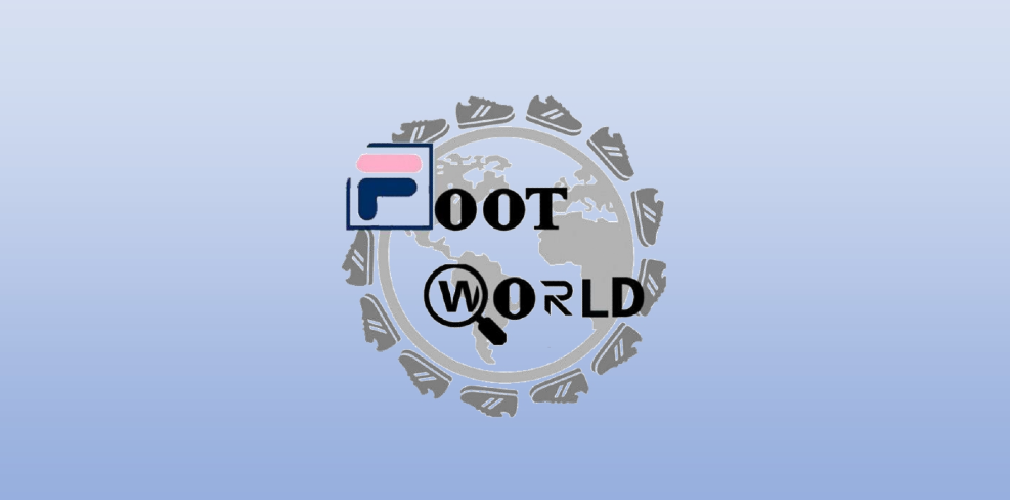
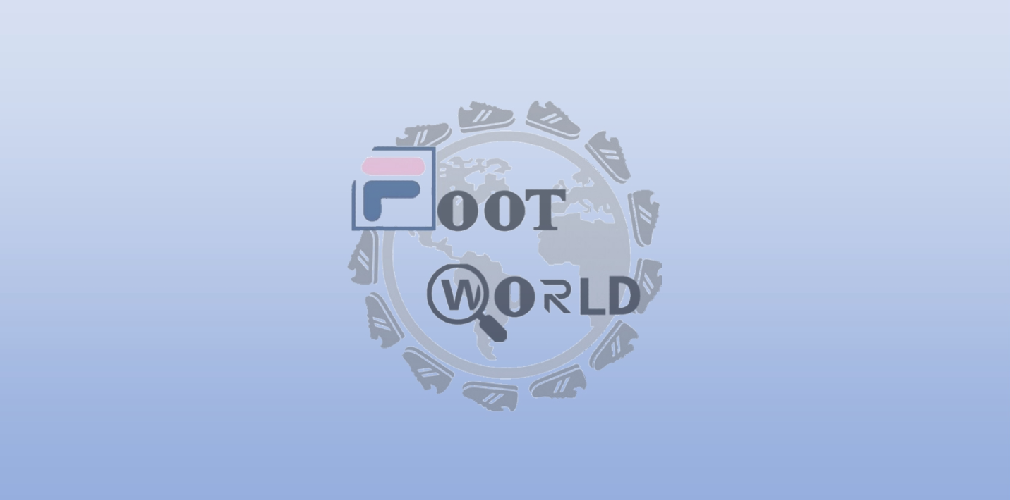
All backgrounds added

Changed region(s): [[0.3376, 0.18, 0.6752, 0.84]]

diff --git a/Zapatillas/src/presentacion/producto/VAltaProducto.java b/Zapatillas/src/presentacion/producto/VAltaProducto.java
@@ -6,6 +6,7 @@ import java.awt.event.ActionEvent;
 import java.awt.event.ActionListener;
 import java.util.ArrayList;
 
+import javax.swing.ImageIcon;
 import javax.swing.JButton;
 import javax.swing.JComboBox;
 import javax.swing.JFrame;
@@ -22,6 +23,7 @@ public class VAltaProducto extends JFrame{
 		super("Foot World");
 		this.setBounds(100, 100, 330, 350);
 		this.setVisible(true);
+		this.setContentPane(new JLabel(new ImageIcon("resources/330x350.png")));
 		this.setLayout(null);
 		this.setDefaultCloseOperation(JFrame.EXIT_ON_CLOSE);
 	}

diff --git a/Zapatillas/src/presentacion/cliente/VAltaCliente.java b/Zapatillas/src/presentacion/cliente/VAltaCliente.java
@@ -5,6 +5,7 @@ import java.awt.Font;
 import java.awt.event.ActionEvent;
 import java.awt.event.ActionListener;
 
+import javax.swing.ImageIcon;
 import javax.swing.JButton;
 import javax.swing.JCheckBox;
 import javax.swing.JFrame;
@@ -21,6 +22,7 @@ public class VAltaCliente extends JFrame{
 		super("Foot World");
 		this.setBounds(100, 100, 330, 350);
 		this.setVisible(true);
+		this.setContentPane(new JLabel(new ImageIcon("resources/330x350.png")));
 		this.setLayout(null);
 		this.setDefaultCloseOperation(JFrame.EXIT_ON_CLOSE);
 	}

diff --git a/Zapatillas/src/presentacion/trabajador/VAltaTrabajador.java b/Zapatillas/src/presentacion/trabajador/VAltaTrabajador.java
@@ -5,6 +5,7 @@ import java.awt.Font;
 import java.awt.event.ActionEvent;
 import java.awt.event.ActionListener;
 
+import javax.swing.ImageIcon;
 import javax.swing.JButton;
 import javax.swing.JFrame;
 import javax.swing.JLabel;
@@ -20,6 +21,7 @@ public class VAltaTrabajador extends JFrame{
 		super("Foot World");
 		this.setBounds(100, 100, 330, 350);
 		this.setVisible(true);
+		this.setContentPane(new JLabel(new ImageIcon("resources/330x350.png")));
 		this.setLayout(null);
 		this.setDefaultCloseOperation(JFrame.EXIT_ON_CLOSE);
 	}

diff --git a/Zapatillas/src/presentacion/trabajador/VBajaTrabajador.java b/Zapatillas/src/presentacion/trabajador/VBajaTrabajador.java
@@ -5,6 +5,7 @@ import java.awt.Font;
 import java.awt.event.ActionEvent;
 import java.awt.event.ActionListener;
 
+import javax.swing.ImageIcon;
 import javax.swing.JButton;
 import javax.swing.JFrame;
 import javax.swing.JLabel;
@@ -20,6 +21,7 @@ public class VBajaTrabajador extends JFrame{
 		super("Foot World");
 		this.setBounds(100, 100, 330, 230);
 		this.setVisible(true);
+		this.setContentPane(new JLabel(new ImageIcon("resources/330x230.png")));
 		this.setLayout(null);
 		this.setDefaultCloseOperation(JFrame.EXIT_ON_CLOSE);
 	}

diff --git a/Zapatillas/src/presentacion/mostrar/VMostrarUno.java b/Zapatillas/src/presentacion/mostrar/VMostrarUno.java
@@ -5,6 +5,7 @@ import java.awt.Font;
 import java.awt.event.ActionEvent;
 import java.awt.event.ActionListener;
 
+import javax.swing.ImageIcon;
 import javax.swing.JButton;
 import javax.swing.JFrame;
 import javax.swing.JLabel;
@@ -23,6 +24,7 @@ public class VMostrarUno extends JFrame{
 		this.entidad = entidad;
 		this.setBounds(100, 100, 330, 230);
 		this.setVisible(true);
+		this.setContentPane(new JLabel(new ImageIcon("resources/330x230.png")));
 		this.setLayout(null);
 		this.setDefaultCloseOperation(JFrame.EXIT_ON_CLOSE);
 	}

diff --git a/Zapatillas/src/presentacion/proveedor/VAltaProveedor.java b/Zapatillas/src/presentacion/proveedor/VAltaProveedor.java
@@ -5,6 +5,7 @@ import java.awt.Font;
 import java.awt.event.ActionEvent;
 import java.awt.event.ActionListener;
 
+import javax.swing.ImageIcon;
 import javax.swing.JButton;
 import javax.swing.JFrame;
 import javax.swing.JLabel;
@@ -20,6 +21,7 @@ public class VAltaProveedor extends JFrame{
 		super("Foot World");
 		this.setBounds(100, 100, 330, 350);
 		this.setVisible(true);
+		this.setContentPane(new JLabel(new ImageIcon("resources/330x350.png")));
 		this.setLayout(null);
 		this.setDefaultCloseOperation(JFrame.EXIT_ON_CLOSE);
 	}

diff --git a/Zapatillas/src/presentacion/proveedor/VBajaProveedor.java b/Zapatillas/src/presentacion/proveedor/VBajaProveedor.java
@@ -5,6 +5,7 @@ import java.awt.Font;
 import java.awt.event.ActionEvent;
 import java.awt.event.ActionListener;
 
+import javax.swing.ImageIcon;
 import javax.swing.JButton;
 import javax.swing.JFrame;
 import javax.swing.JLabel;
@@ -20,6 +21,7 @@ public class VBajaProveedor extends JFrame{
 		super("Foot World");
 		this.setBounds(100, 100, 330, 230);
 		this.setVisible(true);
+		this.setContentPane(new JLabel(new ImageIcon("resources/330x230.png")));
 		this.setLayout(null);
 		this.setDefaultCloseOperation(JFrame.EXIT_ON_CLOSE);
 	}

diff --git a/Zapatillas/src/presentacion/producto/VBajaProducto.java b/Zapatillas/src/presentacion/producto/VBajaProducto.java
@@ -5,6 +5,7 @@ import java.awt.Font;
 import java.awt.event.ActionEvent;
 import java.awt.event.ActionListener;
 
+import javax.swing.ImageIcon;
 import javax.swing.JButton;
 import javax.swing.JFrame;
 import javax.swing.JLabel;
@@ -20,6 +21,7 @@ public class VBajaProducto extends JFrame{
 		super("Foot World");
 		this.setBounds(100, 100, 330, 230);
 		this.setVisible(true);
+		this.setContentPane(new JLabel(new ImageIcon("resources/330x230.png")));
 		this.setLayout(null);
 		this.setDefaultCloseOperation(JFrame.EXIT_ON_CLOSE);
 	}

diff --git a/Zapatillas/src/presentacion/almacen/VAltaAlmacen.java b/Zapatillas/src/presentacion/almacen/VAltaAlmacen.java
@@ -5,6 +5,7 @@ import java.awt.Font;
 import java.awt.event.ActionEvent;
 import java.awt.event.ActionListener;
 
+import javax.swing.ImageIcon;
 import javax.swing.JButton;
 import javax.swing.JFrame;
 import javax.swing.JLabel;
@@ -20,6 +21,7 @@ public class VAltaAlmacen extends JFrame{
 		super("Foot World");
 		this.setBounds(100, 100, 330, 350);
 		this.setVisible(true);
+		this.setContentPane(new JLabel(new ImageIcon("resources/330x350.png")));
 		this.setLayout(null);
 		this.setDefaultCloseOperation(JFrame.EXIT_ON_CLOSE);
 	}

diff --git a/Zapatillas/src/presentacion/almacen/VBajaAlmacen.java b/Zapatillas/src/presentacion/almacen/VBajaAlmacen.java
@@ -5,6 +5,7 @@ import java.awt.Font;
 import java.awt.event.ActionEvent;
 import java.awt.event.ActionListener;
 
+import javax.swing.ImageIcon;
 import javax.swing.JButton;
 import javax.swing.JFrame;
 import javax.swing.JLabel;
@@ -20,6 +21,7 @@ public class VBajaAlmacen extends JFrame{
 		super("Foot World");
 		this.setBounds(100, 100, 330, 230);
 		this.setVisible(true);
+		this.setContentPane(new JLabel(new ImageIcon("resources/330x230.png")));
 		this.setLayout(null);
 		this.setDefaultCloseOperation(JFrame.EXIT_ON_CLOSE);
 	}

diff --git a/Zapatillas/src/presentacion/cliente/VBajaCliente.java b/Zapatillas/src/presentacion/cliente/VBajaCliente.java
@@ -5,6 +5,7 @@ import java.awt.Font;
 import java.awt.event.ActionEvent;
 import java.awt.event.ActionListener;
 
+import javax.swing.ImageIcon;
 import javax.swing.JButton;
 import javax.swing.JFrame;
 import javax.swing.JLabel;
@@ -20,6 +21,7 @@ public class VBajaCliente extends JFrame{
 		super("Foot World");
 		this.setBounds(100, 100, 330, 230);
 		this.setVisible(true);
+		this.setContentPane(new JLabel(new ImageIcon("resources/330x230.png")));
 		this.setLayout(null);
 		this.setDefaultCloseOperation(JFrame.EXIT_ON_CLOSE);
 	}

diff --git a/Zapatillas/src/presentacion/marca/VAltaMarca.java b/Zapatillas/src/presentacion/marca/VAltaMarca.java
@@ -5,6 +5,7 @@ import java.awt.Font;
 import java.awt.event.ActionEvent;
 import java.awt.event.ActionListener;
 
+import javax.swing.ImageIcon;
 import javax.swing.JButton;
 import javax.swing.JFrame;
 import javax.swing.JLabel;
@@ -20,6 +21,7 @@ public class VAltaMarca extends JFrame{
 		super("Foot World");
 		this.setBounds(100, 100, 330, 230);
 		this.setVisible(true);
+		this.setContentPane(new JLabel(new ImageIcon("resources/330x230.png")));
 		this.setLayout(null);
 		this.setDefaultCloseOperation(JFrame.EXIT_ON_CLOSE);
 	}
